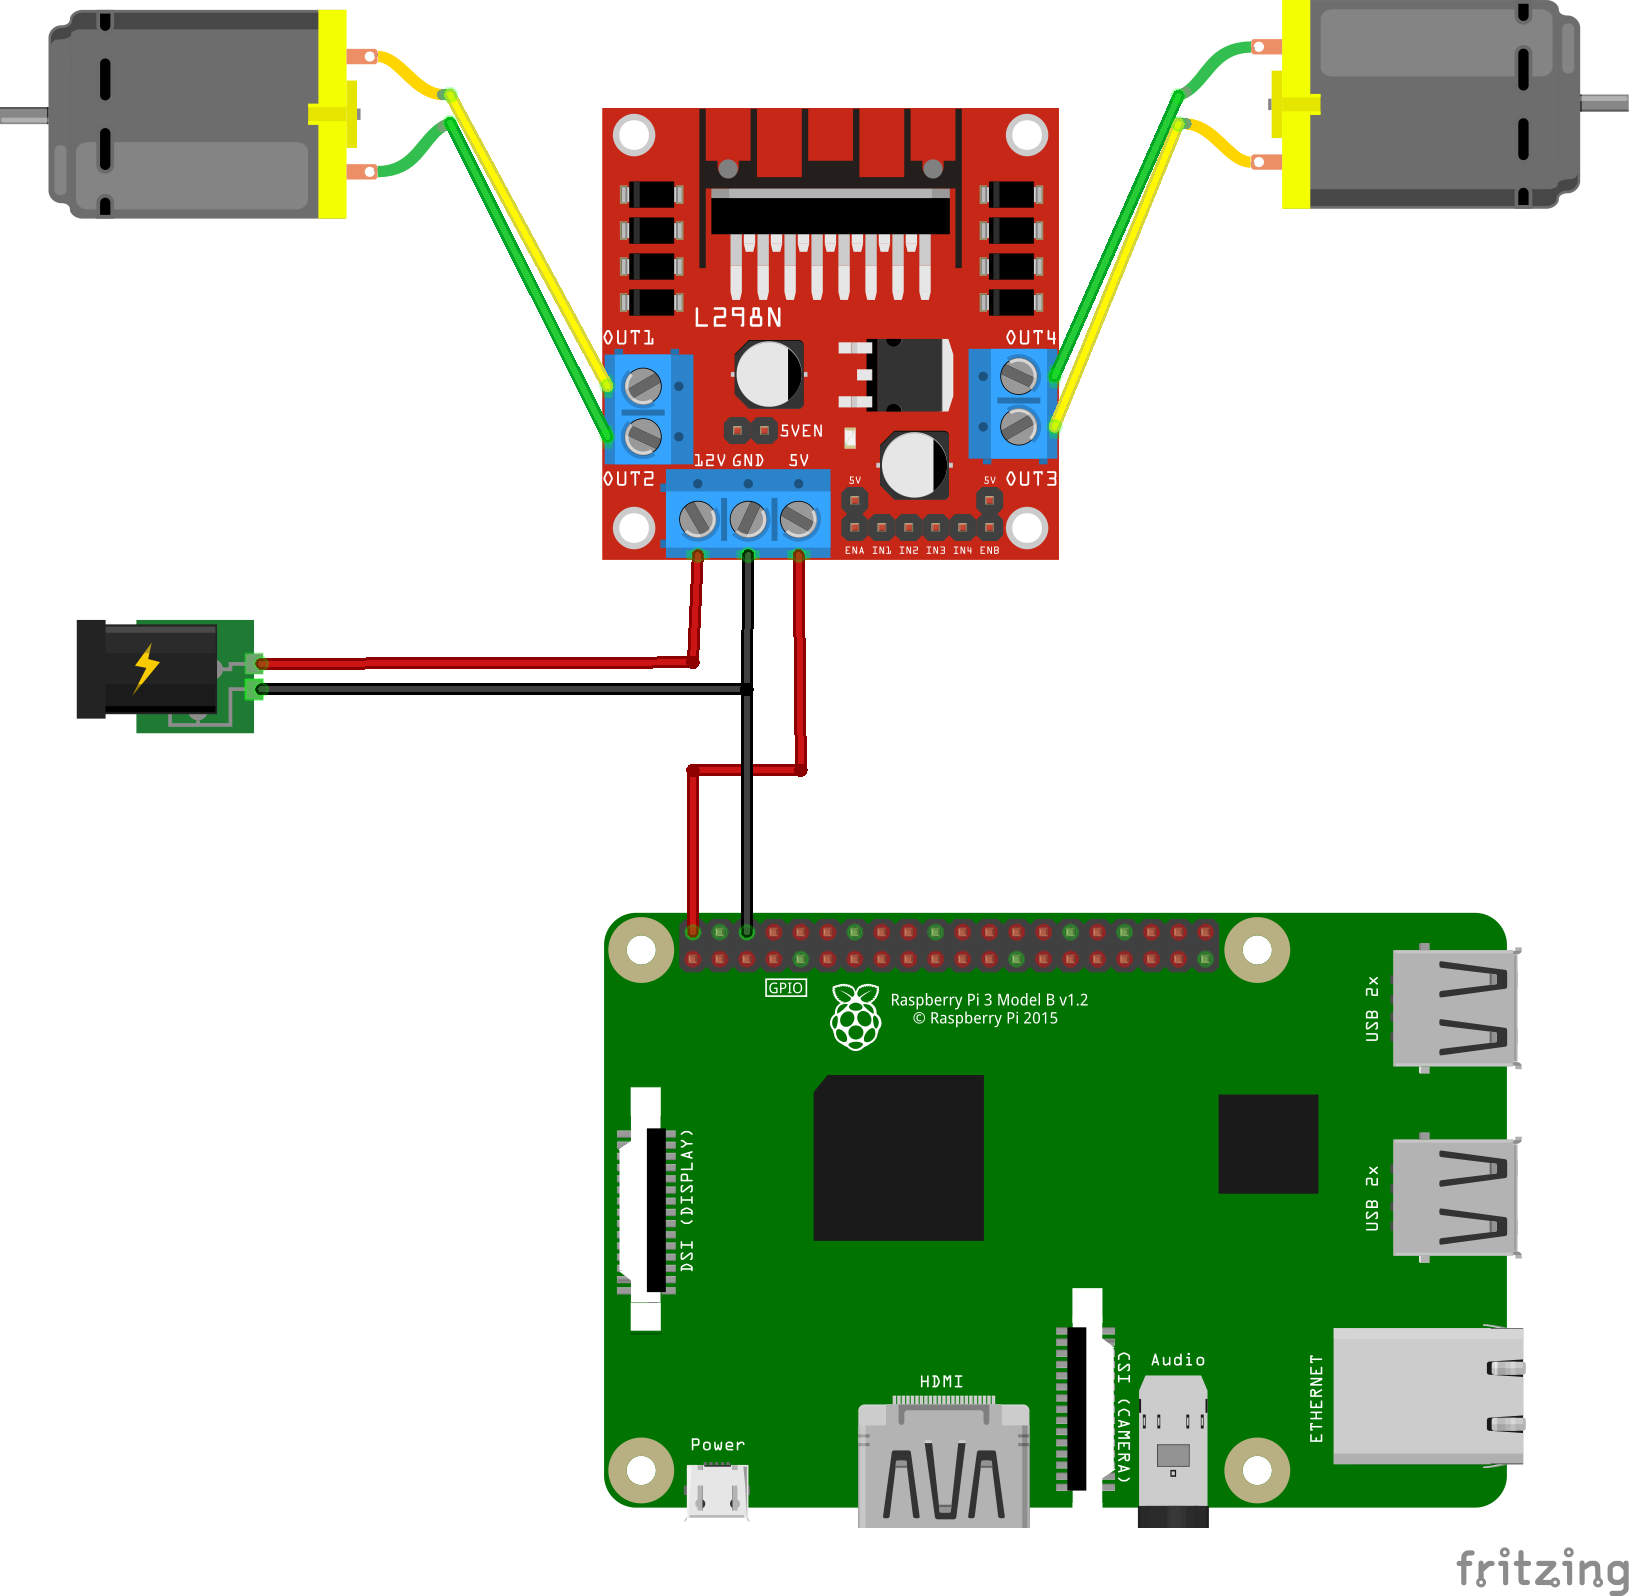
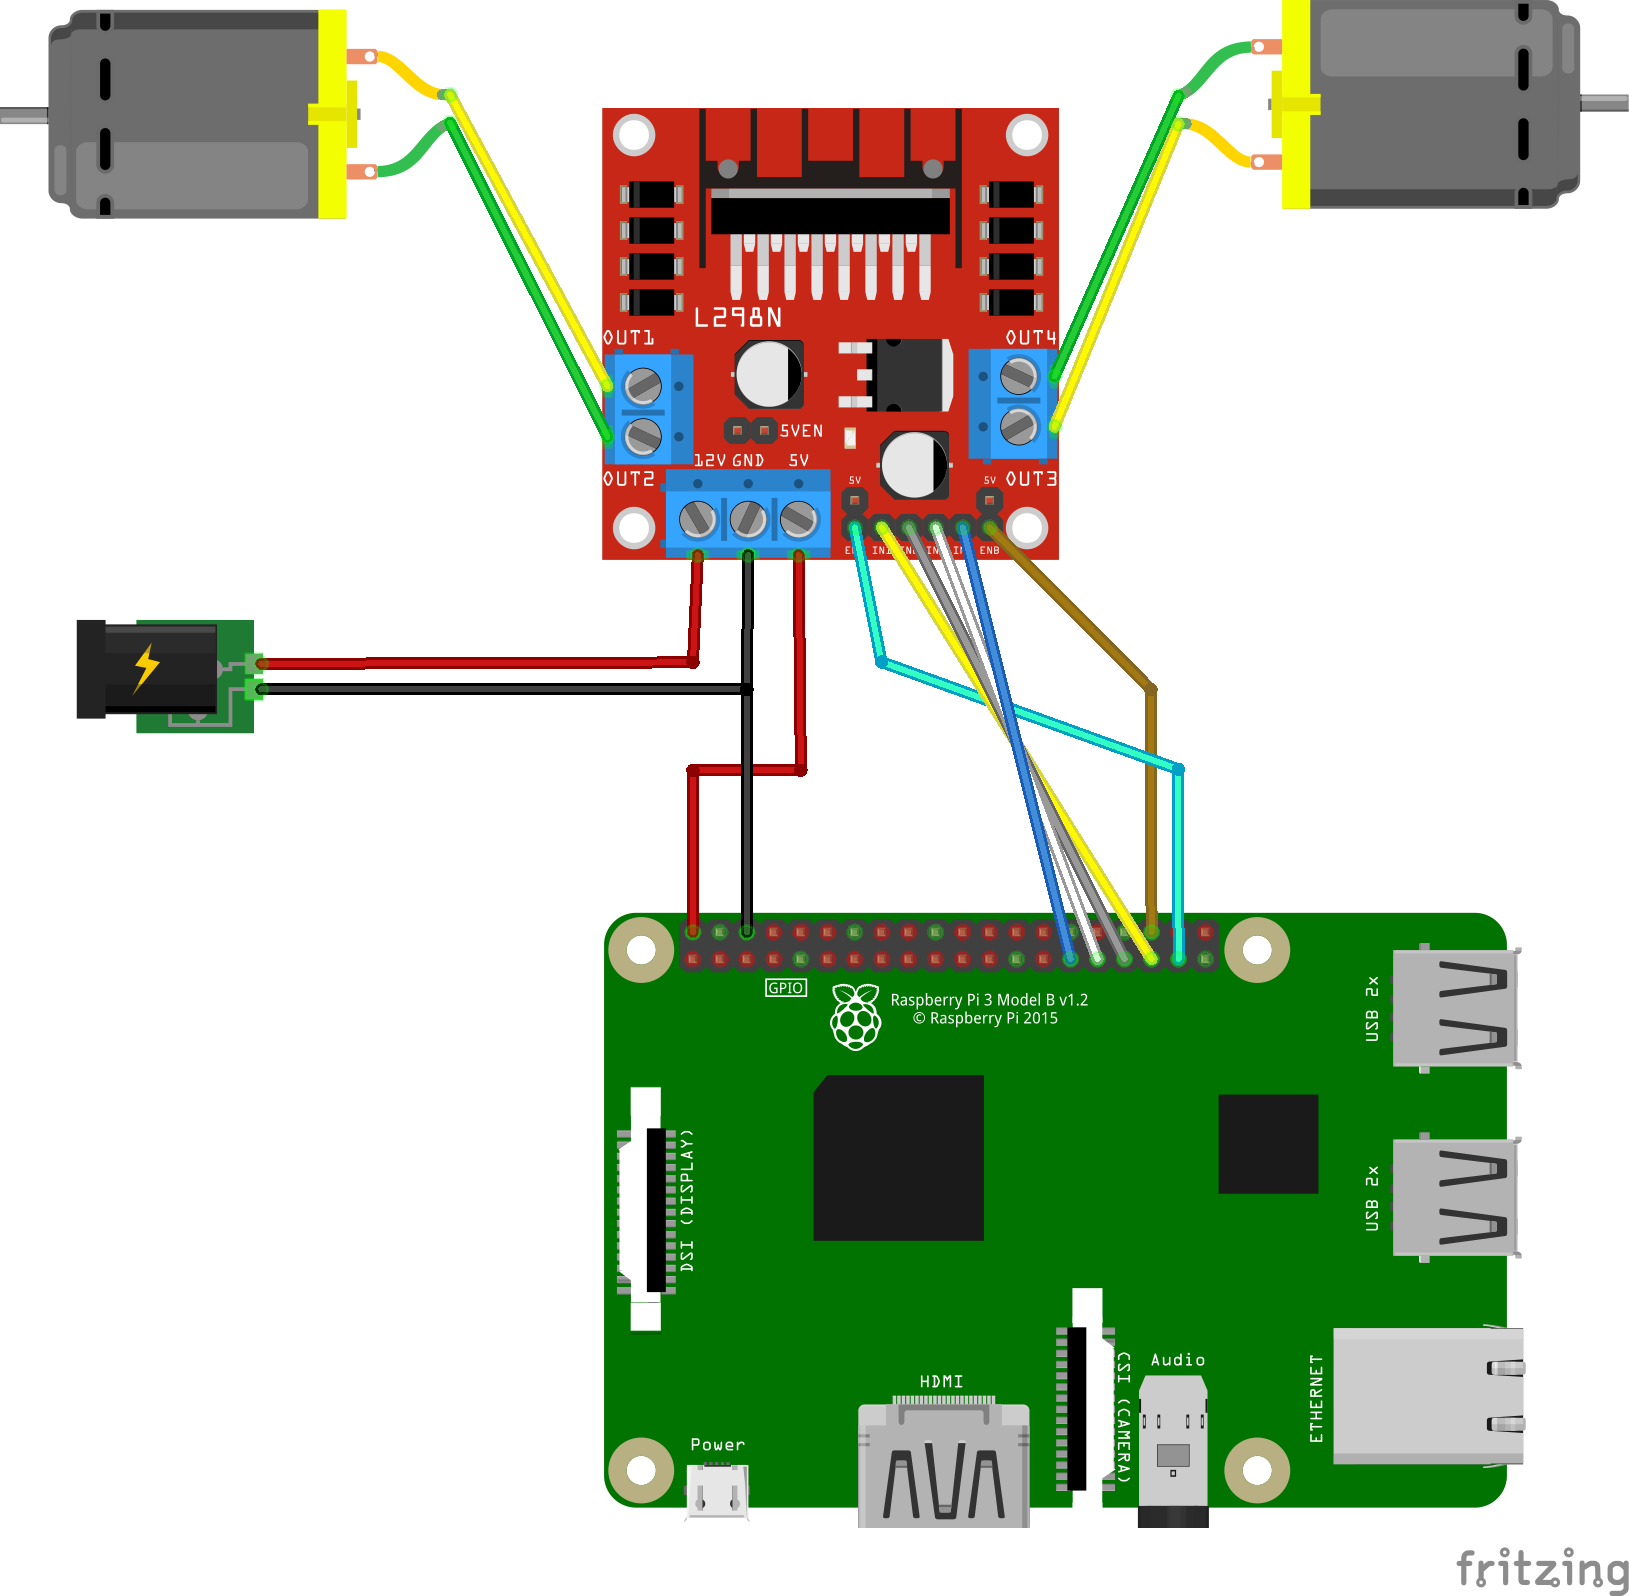
p

Changed region(s): [[0.5218, 0.307, 0.7366, 0.614], [0.6446, 0.3684, 0.6753, 0.3991]]

diff --git a/_posts/2024-06-08-[Project] WiFi remote control car with webcam using Raspberry Pi.md b/_posts/2024-06-08-[Project] WiFi remote control car with webcam using Raspberry Pi.md
@@ -84,6 +84,28 @@ tags: [Raspberry Pi, Arduino, Flask, Server]
 
 ## 하드웨어 설계 및 제작 (이종원, 박하준)
 
+### 회로도 구성
+라즈베리파이에 모터 드라이버, 서보모터, 웹캠이 모두 연결되어 있다. 전원으로 11.1V 2200mAh 리포 배터리를 사용한다.
+원래 라즈베리파이의 전원은 GPIO 핀이 아닌, 꼭 전원 입력 단자로만 공급하는 것이 좋다.
+
+>5V 핀은 퓨즈 이후에 위치하기에 전원 입력용으로 사용하는 것은 권장되지 않는다. 이곳에 외부의 전원을 통해 전원을 공급하면 아무런 보호 장치가 없기에 완벽하게 정류 된 전원이 아니라면 라즈베리파이를 영구적으로 손상시킬 수 있다.(USB, LAN, HDMI 관련 부품들의 VCC에 직결되어 있기 때문에 1차적으로 이들 부품에 직접적인 손상을 입힌다.)
+>[출처](https://blog.naver.com/amos42/222040330497)
+
+그러나 라즈베리파이 4는 GPIO 5V핀이 DC단자와 직결되도록 전원 회로가 변경되었기 때문에 보드의 5V핀으로 전원 공급을 해도 된다.
+~~그래서 리포 배터리를 두 갈래로 나눠서 하나는 DC-DC 스텝다운을 통해 라즈베리파이에 연결하였고 스텝다운이 없는 선은 바로 모터드라이버의 외부전원에 연결하였다.~~
+
+아래 그림에는 없지만 웹캠도 라즈베리파이에 연결되어 있다.
+![rccar_without_arduino.ps.png](/assets/img/rccar_without_arduino.ps.png){: width="40%" height="40%"}*아두이노 없는 버전. 라즈베리파이 전류 부족*
+
+이런식으로 하면 라즈베리파이에 흐르는 전류가 부족하기 때문에 작동에 지장이 생긴다. 프로젝트 중간에 서보모터를 아두이노에 연결하는 방식으로 바꾸는데, 이때 스텝다운을 두 개를 써서 라즈베리파이와 아두이노 각각에 연결하였다. 스텝다운 자체에도 전류 제한이 있다는 것이 가장 큰 원인이었던 것 같다.
+
+그래서 만들어진 최종 회로는 아래와 같다.
+
+![rccar_with_arduino.ps.png](/assets/img/rccar_with_arduino.ps.png){: width="80%" height="80%"}*최종 버전*
+
+(라즈베리파이, 아두이노), (라즈베리파이, 웹캠)은 각각 usb 케이블로 서로 연결하면 된다.
+
+
 ### **아직 안씀**
 
 ---